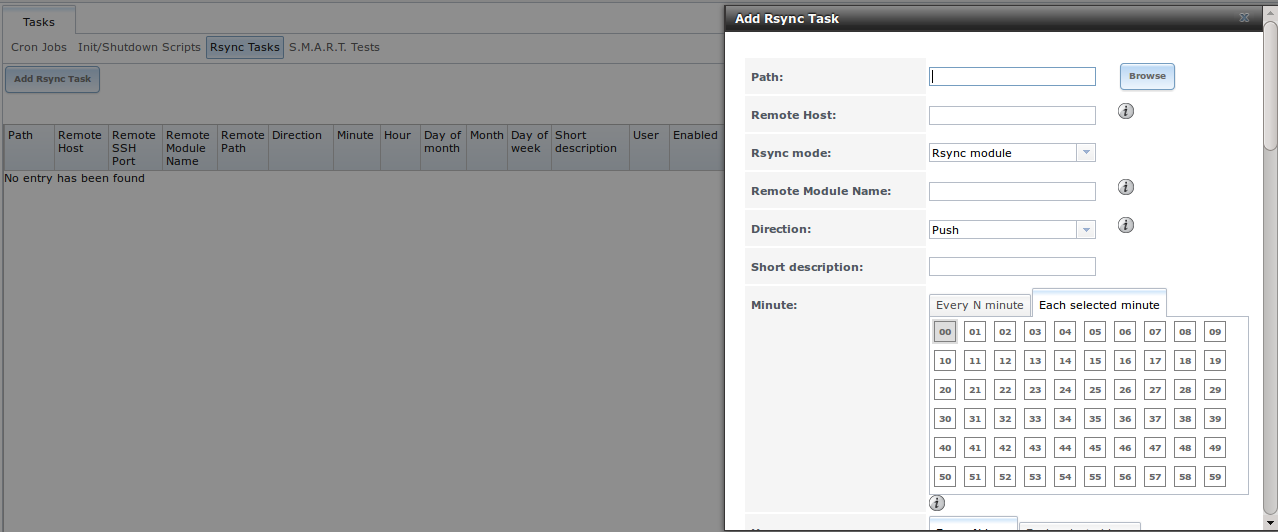
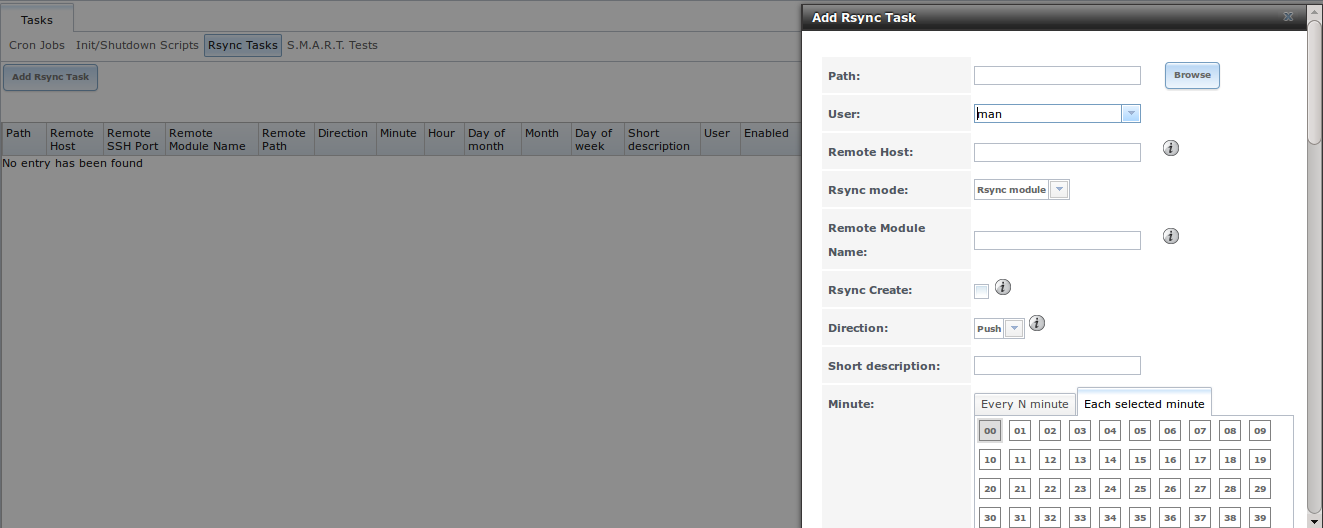
Add new rsync field.

Changed region(s): [[0.0, 0.0, 1.0, 1.0], [0.7324, 0.0909, 0.946, 0.4848], [0.8545, 0.2727, 0.9155, 0.303]]

diff --git a/docs/userguide/freenas_tasks.rst b/docs/userguide/freenas_tasks.rst
@@ -173,7 +173,7 @@ can be configured when creating an rsync task.
 |rsync1.png|
 
 .. |rsync1.png| image:: images/rsync1.png
-    :width: 10.74in
+    :width: 11.1in
     :height: 4.4in
 
 **Table 6.3a: Rsync Configuration Options**
@@ -187,6 +187,11 @@ can be configured when creating an rsync task.
 |                                  |                             | characters will fail                                                                      |
 |                                  |                             |                                                                                           |
 +----------------------------------+-----------------------------+-------------------------------------------------------------------------------------------+
+| User                             | drop-down menu              | specified user must have permission to write to the specified directory on the remote     |
+|                                  |                             | system; due to a limitation in FreeBSD, the user name can not contain spaces or exceed 17 |
+|                                  |                             | characters                                                                                |
+|                                  |                             |                                                                                           |
++----------------------------------+-----------------------------+-------------------------------------------------------------------------------------------+
 | Remote Host                      | string                      | IP address or hostname of the remote system that will store the copy                      |
 |                                  |                             |                                                                                           |
 +----------------------------------+-----------------------------+-------------------------------------------------------------------------------------------+
@@ -198,11 +203,17 @@ can be configured when creating an rsync task.
 |                                  |                             | *Rsync over SSH*                                                                          |
 |                                  |                             |                                                                                           |
 +----------------------------------+-----------------------------+-------------------------------------------------------------------------------------------+
-| Remote Module Name/Remote Path   | string                      | when using *Rsync module* mode, at least one module must be defined in                    |
+| Remote Module Name               | string                      | only appears when using *Rsync module* mode, at least one module must be defined in       |
 |                                  |                             | `rsyncd.conf(5) <http://www.samba.org/ftp/rsync/rsyncd.conf.html>`_                       |
 |                                  |                             | of rsync server or in the "Rsync Modules" of another                                      |
-|                                  |                             | system; when using *Rsync over SSH* mode, input the path on the remote host to push or    |
-|                                  |                             | pull (e.g. */mnt/volume*)                                                                 |
+|                                  |                             | system                                                                                    |
+|                                  |                             |                                                                                           |
++----------------------------------+-----------------------------+-------------------------------------------------------------------------------------------+
+| Remote Path                      | string                      | only appears when using *Rsync over SSH* mode, input the path on the remote host to push  |
+|                                  |                             | or pull (e.g. */mnt/volume*)                                                              |
+|                                  |                             |                                                                                           |
++----------------------------------+-----------------------------+-------------------------------------------------------------------------------------------+
+| Rsync Create                     | checkbox                    | if the "Remote Path" does not yet exist, check this box to have it automatically created  |
 |                                  |                             |                                                                                           |
 +----------------------------------+-----------------------------+-------------------------------------------------------------------------------------------+
 | Direction                        | drop-down menu              | choices are *Push* or                                                                     |
@@ -228,11 +239,6 @@ can be configured when creating an rsync task.
 |                                  |                             |                                                                                           |
 +----------------------------------+-----------------------------+-------------------------------------------------------------------------------------------+
 | Day of week                      | checkboxes                  | task occurs on the selected days of the week                                              |
-|                                  |                             |                                                                                           |
-+----------------------------------+-----------------------------+-------------------------------------------------------------------------------------------+
-| User                             | drop-down menu              | specified user must have permission to write to the specified directory on the remote     |
-|                                  |                             | system; due to a limitation in FreeBSD, the user name can not contain spaces or exceed 17 |
-|                                  |                             | characters                                                                                |
 |                                  |                             |                                                                                           |
 +----------------------------------+-----------------------------+-------------------------------------------------------------------------------------------+
 | Recursive                        | checkbox                    | if checked, copy will include all subdirectories of the specified volume                  |

diff --git a/docs/userguide/freenas_intro.rst b/docs/userguide/freenas_intro.rst
@@ -263,6 +263,8 @@ The following fields have been added or deleted:
 
 * A "Run Now" button has been added for the highlighted cron job in :menuselection:`Tasks --> Cron Jobs --> View Cron Jobs`.
 
+* The "Rsync Create" checkbox has been added to :menuselection:`Tasks --> Rsync Tasks --> Add Rsync Task`.
+
 * The icons in Storage have been renamed to clarify their purpose. "Auto Import Volume" is now "Import Volume", "Import Volume" is now "Import Disk", "ZFS
   Volume Manager" is now "Volume Manager", and "ZFS Scrubs" are now "Scrubs".
 
